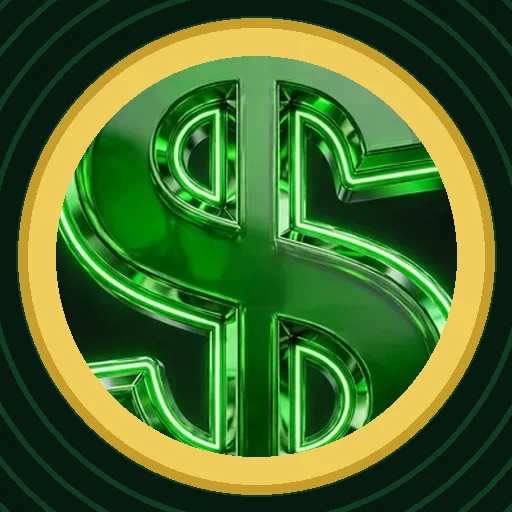
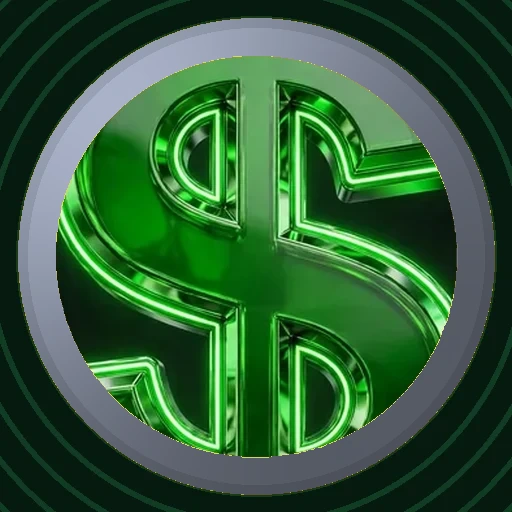
Casino Classics: dollar-door medallion ring gold -> chrome (SW v2-20)

Changed region(s): [[0.0312, 0.0312, 0.9688, 0.9688]]

diff --git a/test-bench/hustle-city-slots/sw.js b/test-bench/hustle-city-slots/sw.js
@@ -1,5 +1,5 @@
 /* Hustle City Slots — Casino Classics v2.3 service worker. (c) 2026 J-Dawgs Industries. */
-const CACHE = 'hc-slots-classics-v2-19';
+const CACHE = 'hc-slots-classics-v2-20';
 const ASSETS = [
   './', './index.html', './style.css', './celeb-title.css', './game.js', './logic.js', './machines.js', './soundkit.js', './cabinet-life.js', './assets/celeb-show.mp4', './assets/celeb-title.png', './assets/fonts/bebas-neue.woff2',
   './assets/sfx/bell.mp3', './assets/sfx/win-small.mp3', './assets/sfx/win-med.mp3',
